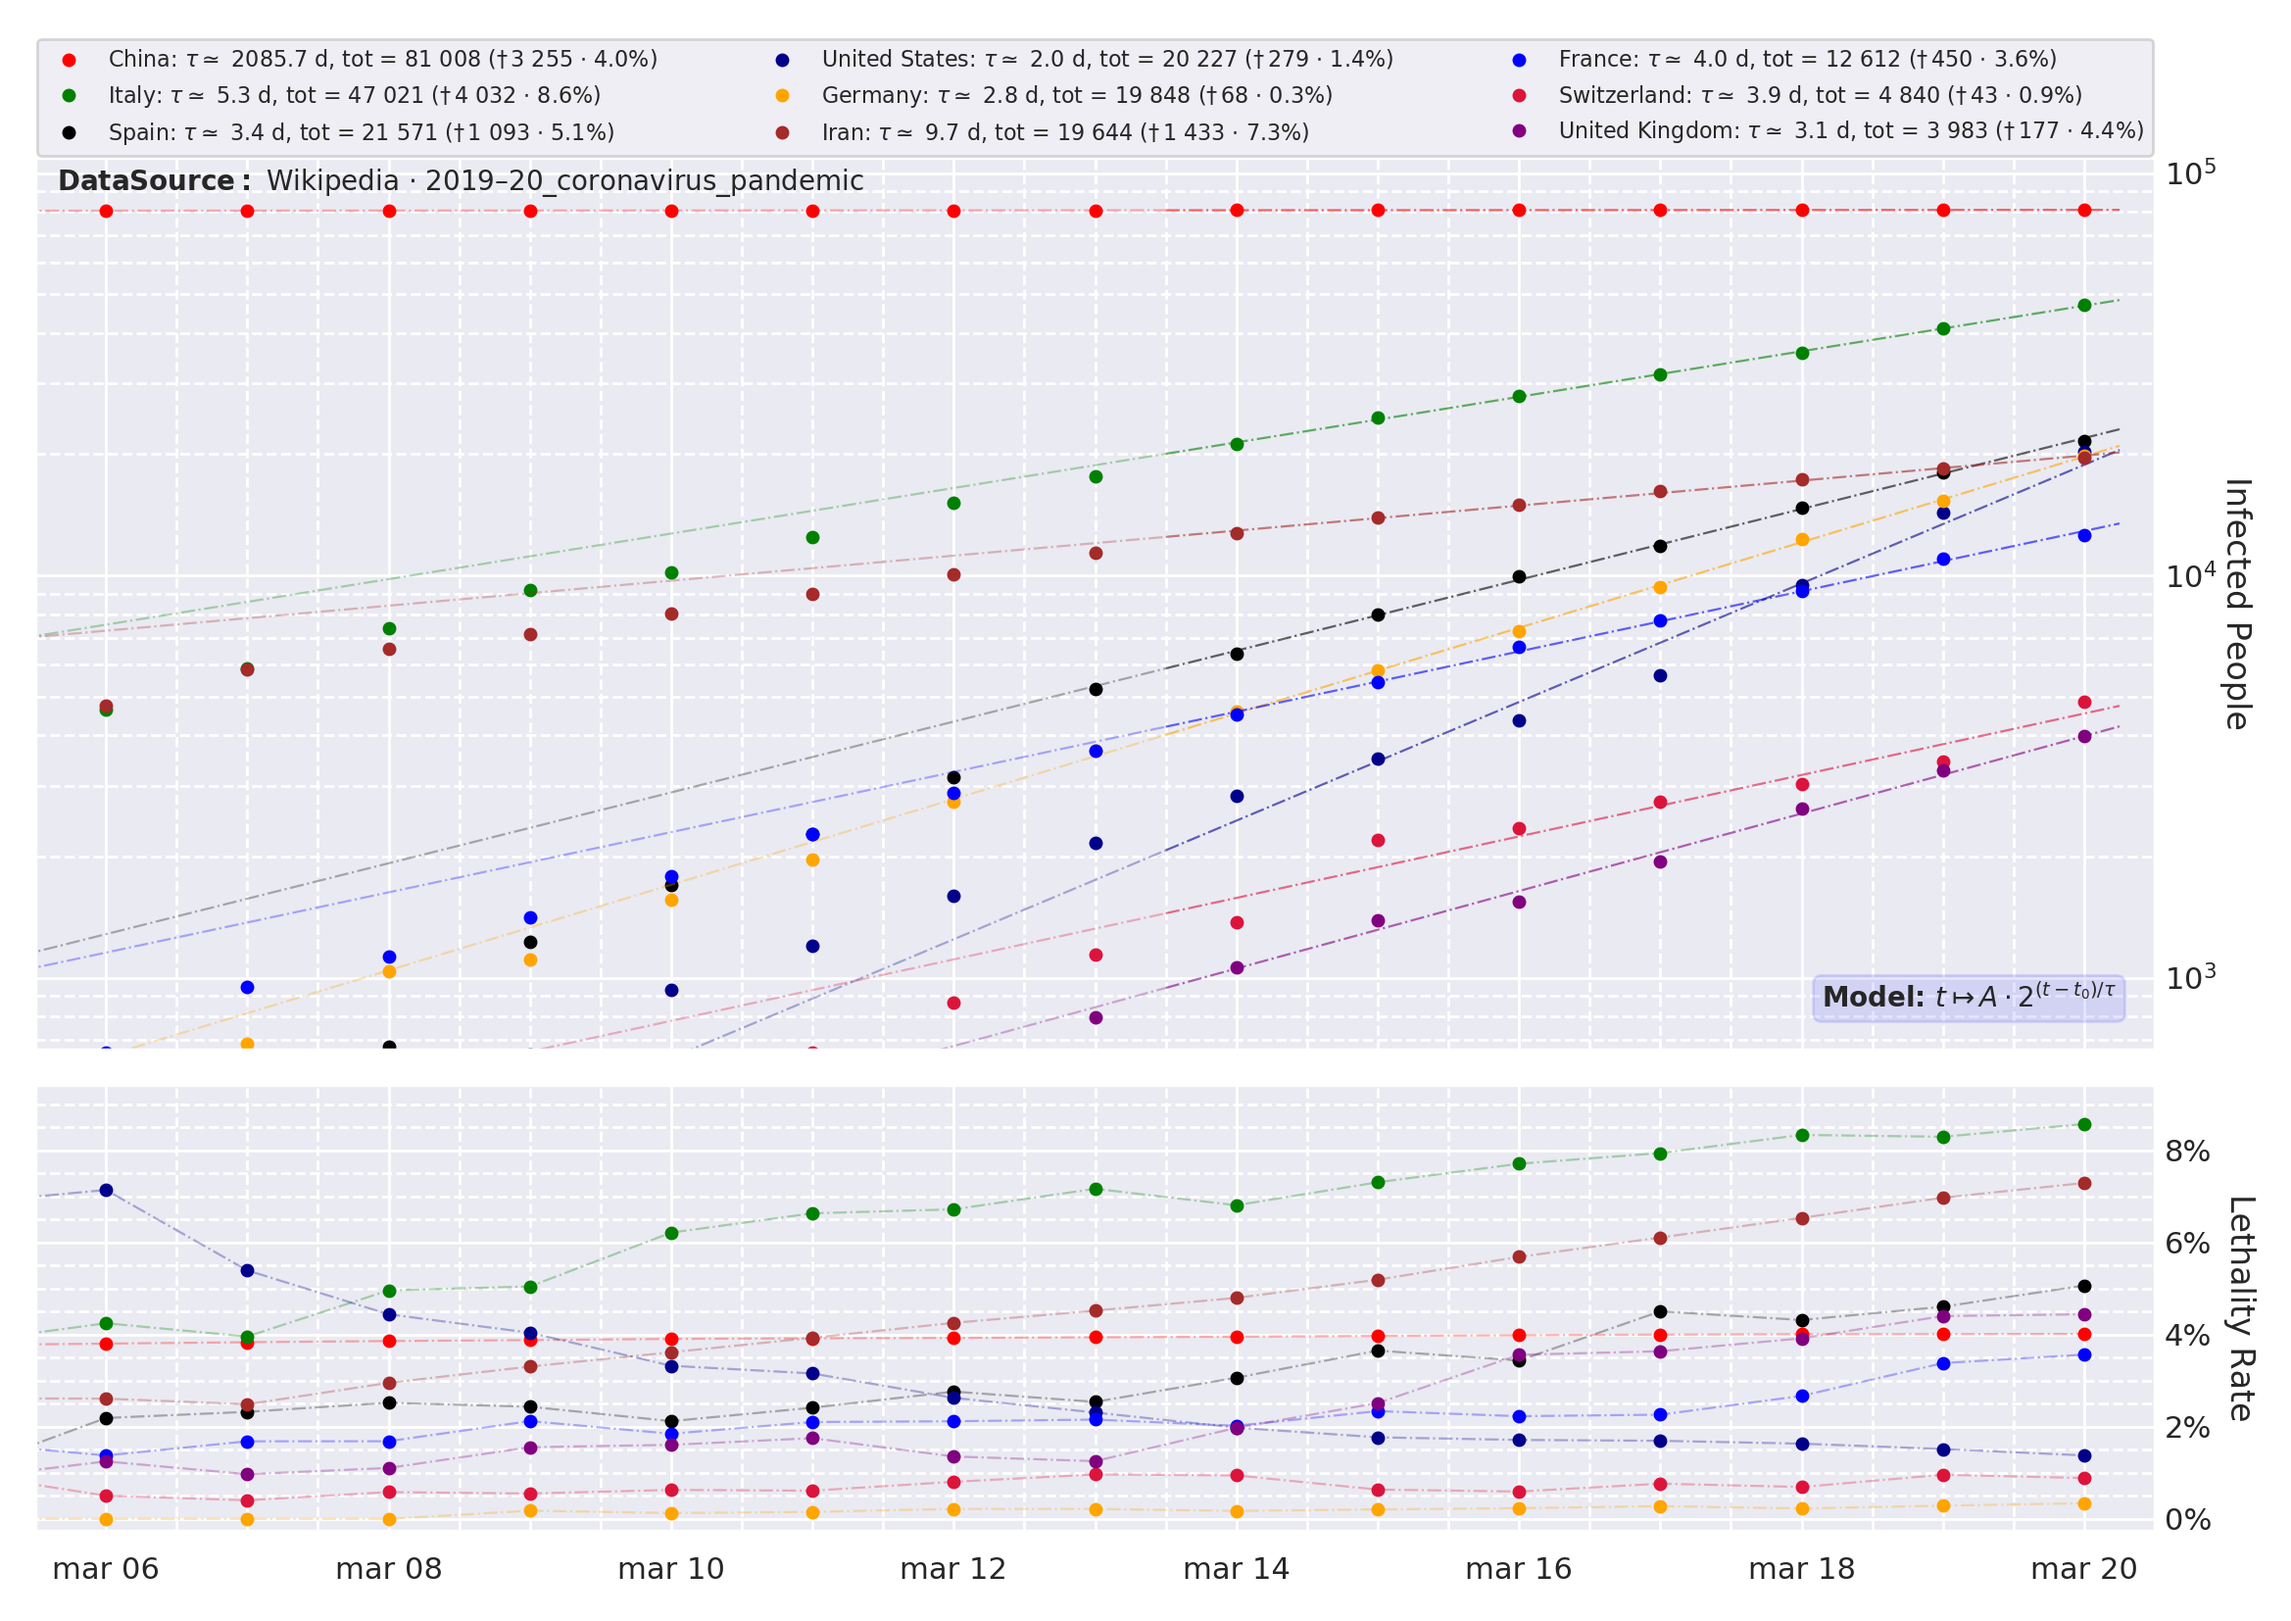
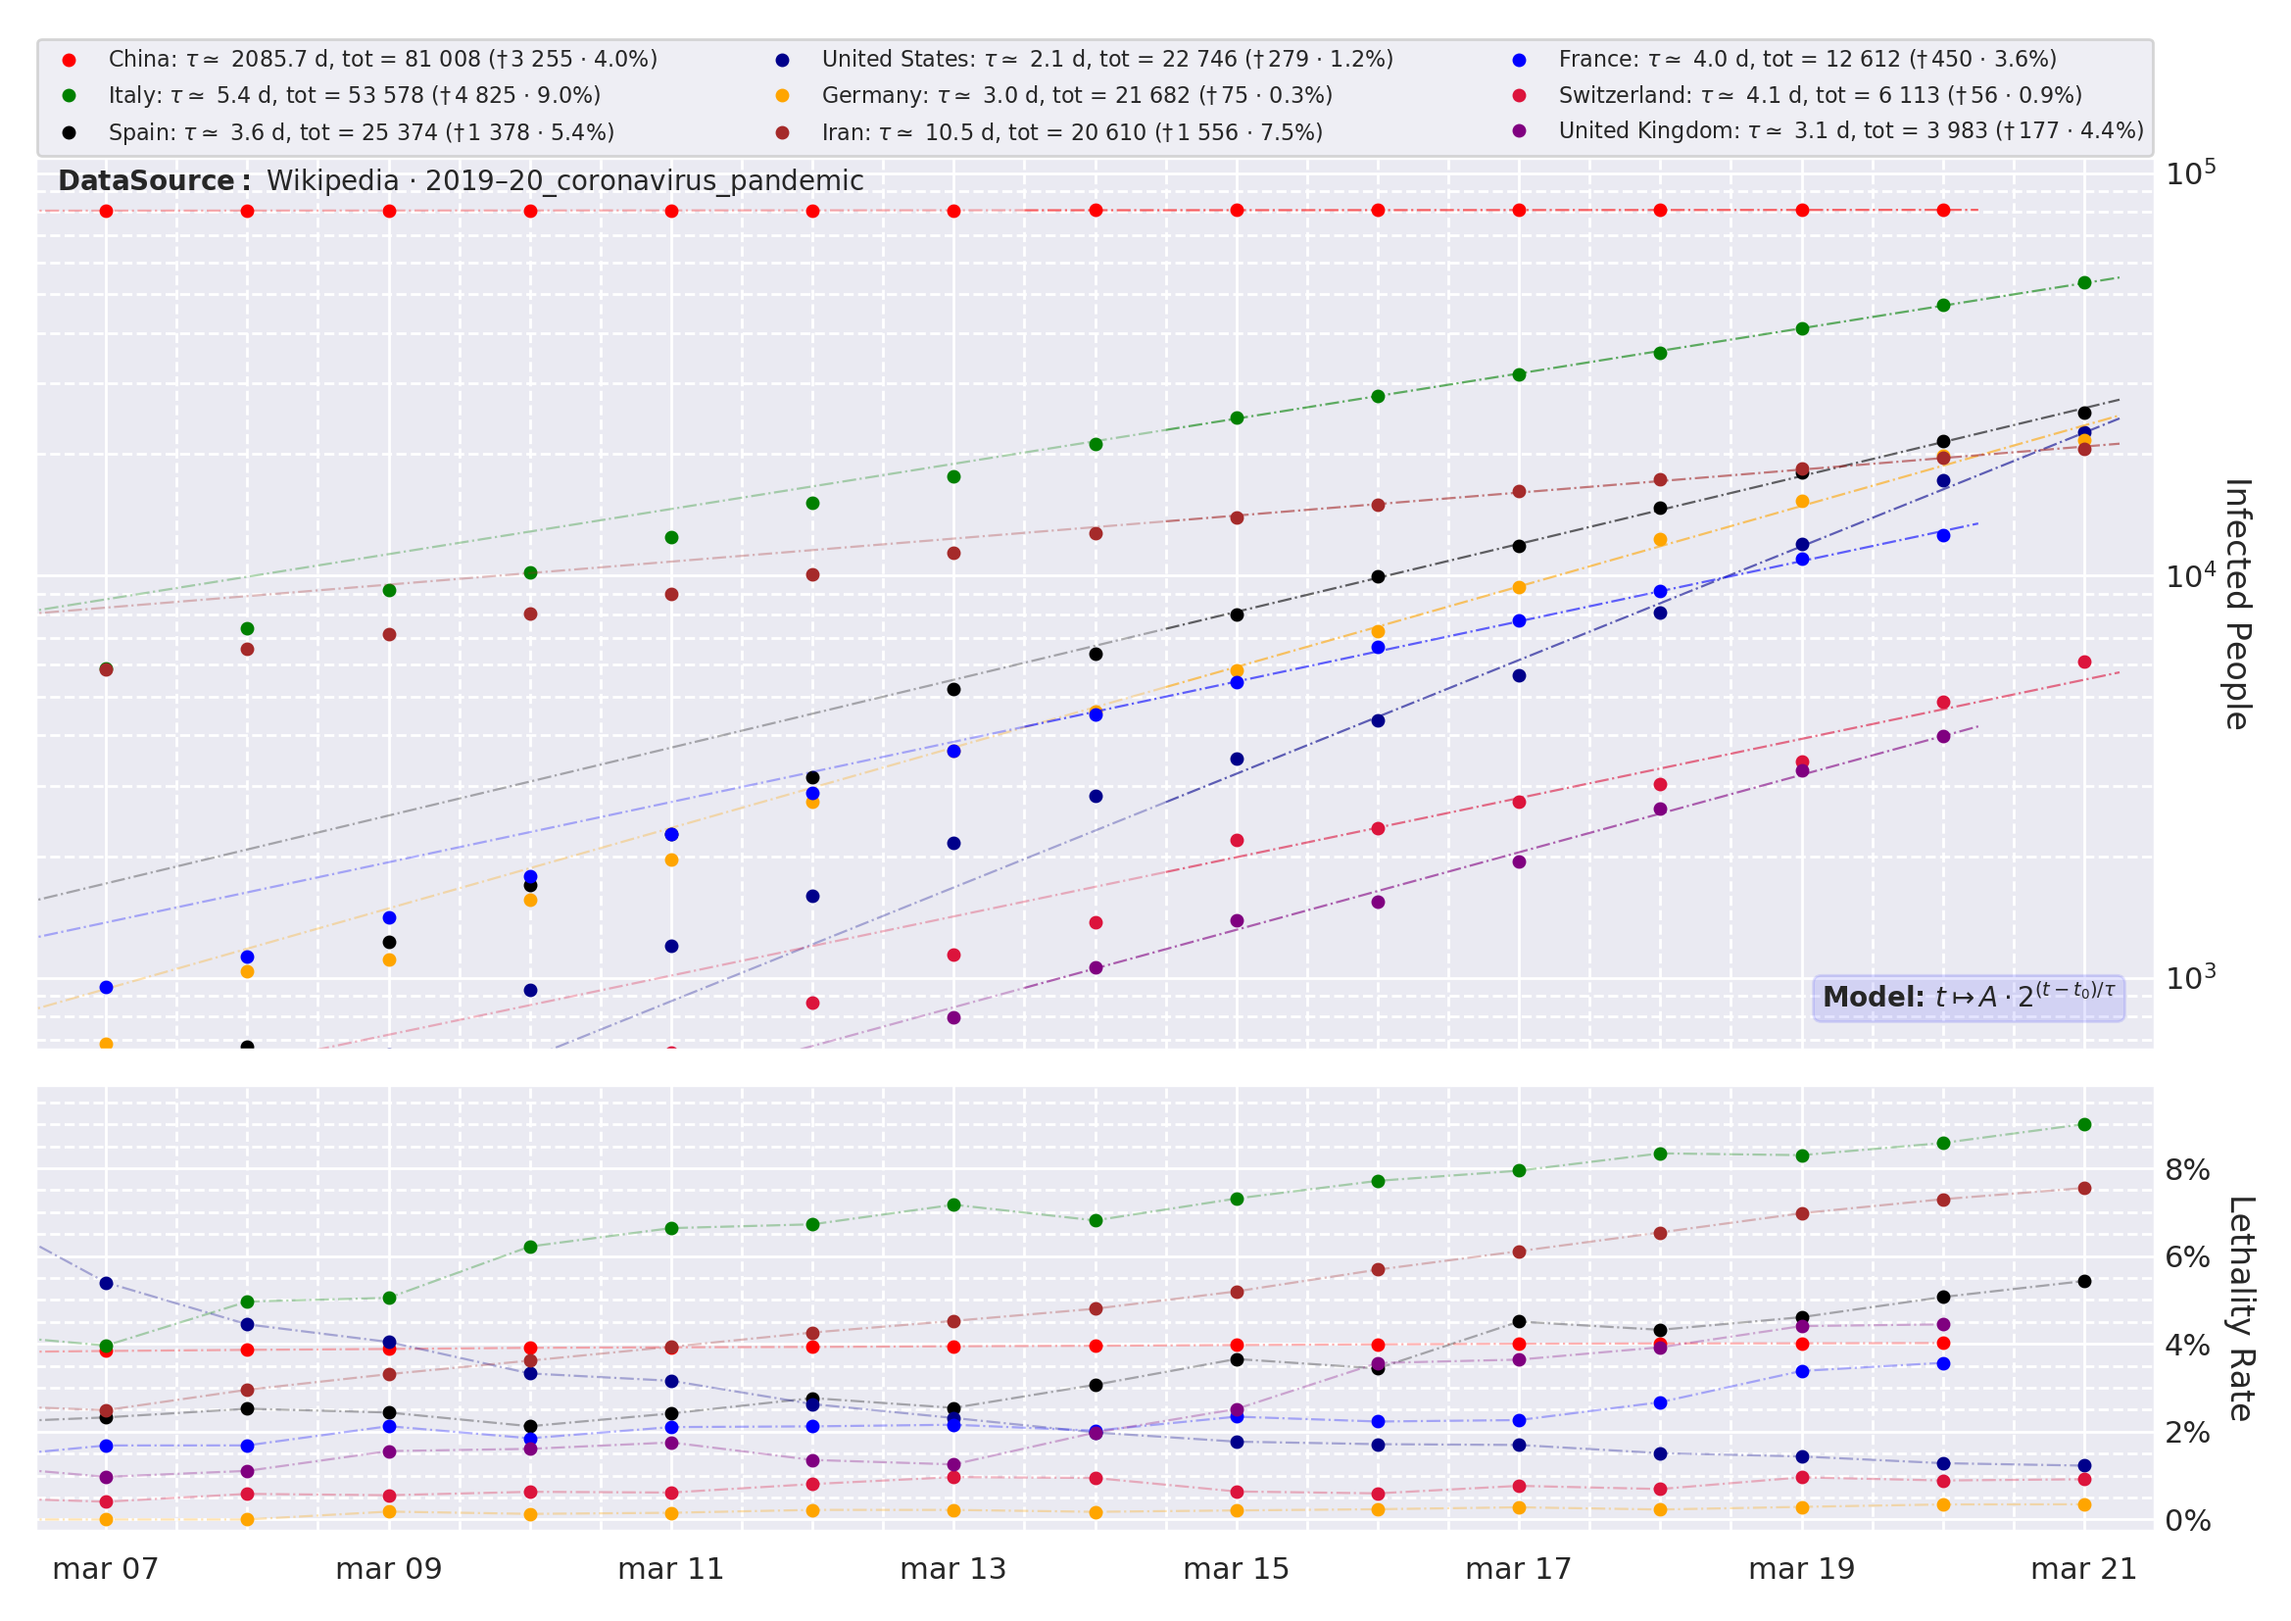
minor commit

diff --git a/Coronavirus/coronavirus.py b/Coronavirus/coronavirus.py
@@ -3,15 +3,11 @@ import matplotlib.pyplot as plt
 import matplotlib.dates as mdates
 import matplotlib.ticker as ticker
 import numpy as np
-from scipy.optimize import curve_fit
+from sklearn.linear_model import LinearRegression
 from pandas.plotting import register_matplotlib_converters
 import seaborn as sns
 sns.set()
 register_matplotlib_converters()
-
-
-def lin(t, tau, t0, c):
-    return (t-t0)/tau + c
 
 
 def spacing(n):
@@ -38,23 +34,23 @@ country_ds["color"] = [
     "purple", "brown", "green", "orange", "blue", "red", "black", "crimson",
     "darkblue"
 ]
+country_ds.set_index("name", inplace=True)
 
-for i in country_ds.index:
+for name in country_ds.index:
     kwargs = {"delimiter": ";", "index_col": "data", "parse_dates": True}
-    if country_ds["date_format"].iloc[i] is not None:
+    if country_ds["date_format"].loc[name] is not None:
         kwargs["date_parser"] = lambda x: pd.to_datetime(
-                x, format=country_ds["date_format"].iloc[i])
+                x, format=country_ds["date_format"].loc[name])
 
-    df = pd.read_csv("datasets/" + country_ds["filename"].iloc[i], **kwargs)
-    country_ds["tot_count"].iloc[i] = df["count"].iloc[-1]
-    country_ds["tot_death"].iloc[i] = df["death"].iloc[-1]
+    df = pd.read_csv("datasets/" + country_ds["filename"].loc[name], **kwargs)
+    country_ds.loc[name, "tot_count"] = df["count"].iloc[-1]
+    country_ds.loc[name, "tot_death"] = df["death"].iloc[-1]
 
 country_ds["tot_count"] = country_ds["tot_count"].astype(int)
 country_ds["tot_death"] = country_ds["tot_death"].astype(int)
 country_ds["lethality"] = country_ds["tot_death"]/country_ds["tot_count"]*100
 country_ds["last_update"] = country_ds["tot_death"].astype("datetime64[ns]")
 country_ds.sort_values(by=["tot_count"], ascending=False, inplace=True)
-country_ds.reset_index(drop=True, inplace=True)
 
 plt.rcParams.update({"font.size": 12})
 
@@ -63,21 +59,18 @@ f, (ax1, ax2) = plt.subplots(2, 1, sharex=True,
                              gridspec_kw={"height_ratios": [2, 1]})
 f.subplots_adjust(hspace=0)
 
-for i in country_ds.index:
+model = LinearRegression(fit_intercept=True)
+for name in country_ds.index:
     kwargs = {"delimiter": ";", "index_col": "data", "parse_dates": True}
-    if country_ds["date_format"].iloc[i] is not None:
+    if country_ds["date_format"].loc[name] is not None:
         kwargs["date_parser"] = lambda x: pd.to_datetime(
-                x, format=country_ds["date_format"].iloc[i])
-    df = pd.read_csv("datasets/" + country_ds["filename"].iloc[i], **kwargs)
+                x, format=country_ds["date_format"].loc[name])
+    df = pd.read_csv("datasets/" + country_ds["filename"].loc[name], **kwargs)
 
     t = mdates.date2num(df.index)
-    country_ds["last_update"].iloc[i] = df.index[-1]
+    country_ds.loc[name, "last_update"] = df.index[-1]
 
-    param = [1, t[-7], 0]
-
-    param, _ = curve_fit(lin, t[-7:],
-                         np.log2(df["count"].values[-7:]),
-                         p0=param)
+    model.fit(t[-7:, np.newaxis], np.log2(df["count"].values[-7:]))
 
     t1 = np.linspace(t[-7:].min() - 0.5, t.max() + 0.25, 100)
     t2 = np.linspace(t[-1] - 15, t[-7:].min() - 0.5, 1000)
@@ -86,24 +79,24 @@ for i in country_ds.index:
 
     label = (r"%s: $\tau \simeq$ %.1f d, " +
              r"tot = %s ($\dag\,$%s $\cdot$ %.1f%%)") % (
-        country_ds["name"].iloc[i],
-        param[0],
-        spacing(country_ds["tot_count"].iloc[i]),
-        spacing(country_ds["tot_death"].iloc[i]),
-        country_ds["lethality"].iloc[i]
+        name,
+        1/model.coef_,
+        spacing(country_ds["tot_count"].loc[name]),
+        spacing(country_ds["tot_death"].loc[name]),
+        country_ds["lethality"].loc[name]
     )
     ax1.plot(df.index, df["count"].values, ".",
-             color=country_ds["color"].iloc[i], label=label, markersize=8)
-    ax1.plot(d1, 2**(lin(t1, *param)), "-.", alpha=0.6,
-             color=country_ds["color"].iloc[i], linewidth=0.8)
-    ax1.plot(d2, 2**(lin(t2, *param)), "-.", alpha=0.3,
-             color=country_ds["color"].iloc[i], linewidth=0.8)
+             color=country_ds["color"].loc[name], label=label, markersize=8)
+    ax1.plot(d1, 2**(model.predict(t1[:, np.newaxis])), "-.", alpha=0.6,
+             color=country_ds["color"].loc[name], linewidth=0.8)
+    ax1.plot(d2, 2**(model.predict(t2[:, np.newaxis])), "-.", alpha=0.3,
+             color=country_ds["color"].loc[name], linewidth=0.8)
 
     df["death"].fillna(0, inplace=True)
     ax2.plot(df.index, (100*df["death"]/df["count"]).values, ".",
-             color=country_ds["color"].iloc[i], markersize=8)
+             color=country_ds["color"].loc[name], markersize=8)
     ax2.plot(df.index, (100*df["death"]/df["count"]).values, "-.",
-             color=country_ds["color"].iloc[i], alpha=0.3, linewidth=0.8)
+             color=country_ds["color"].loc[name], alpha=0.3, linewidth=0.8)
 
 ax1.text(0.01, 0.99, r"$\bf{Data Source:}$ " +
                      r"Wikipedia $\cdot$ 2019–20_coronavirus_pandemic",
